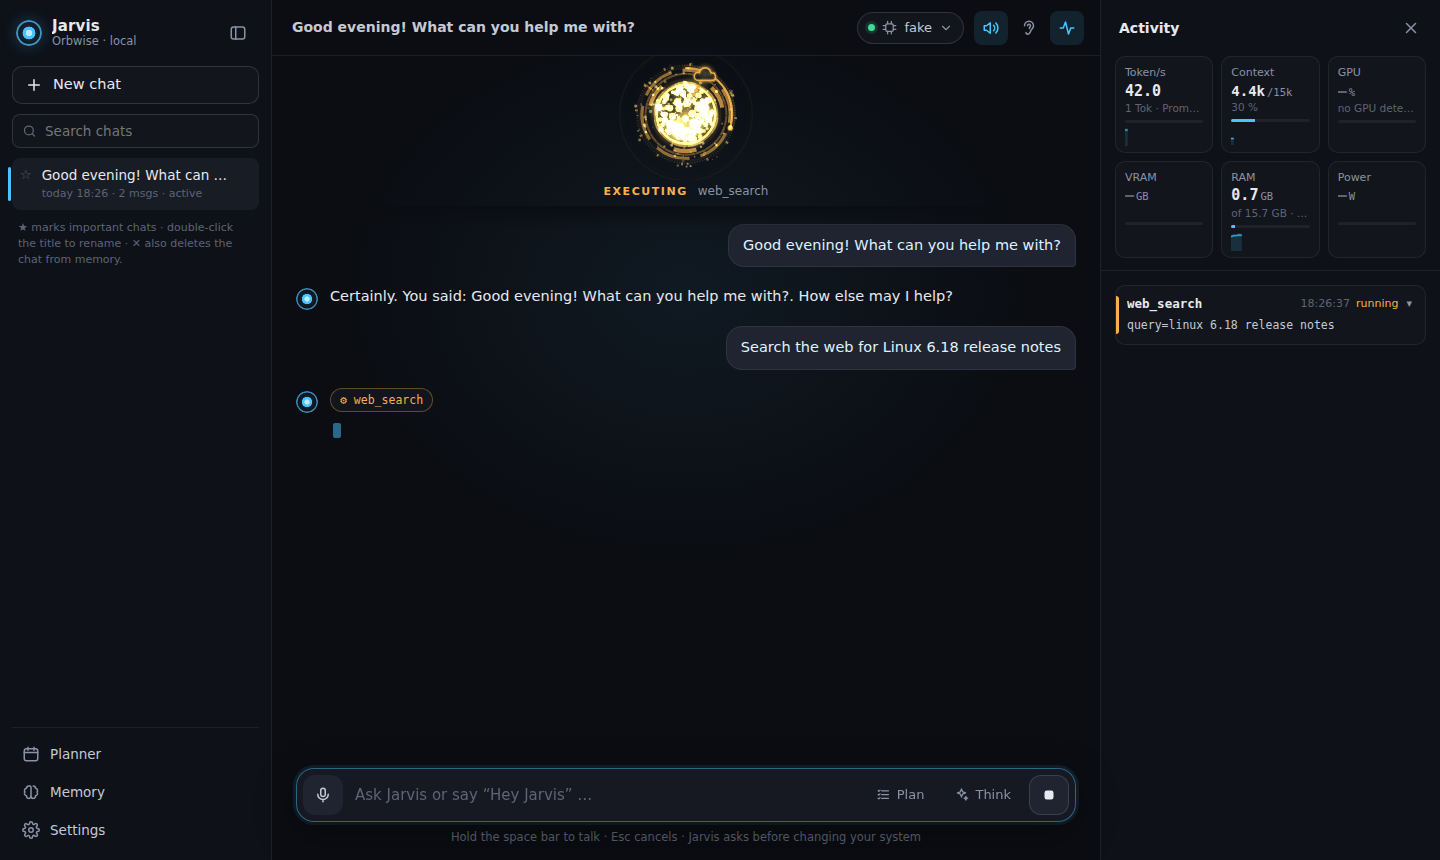
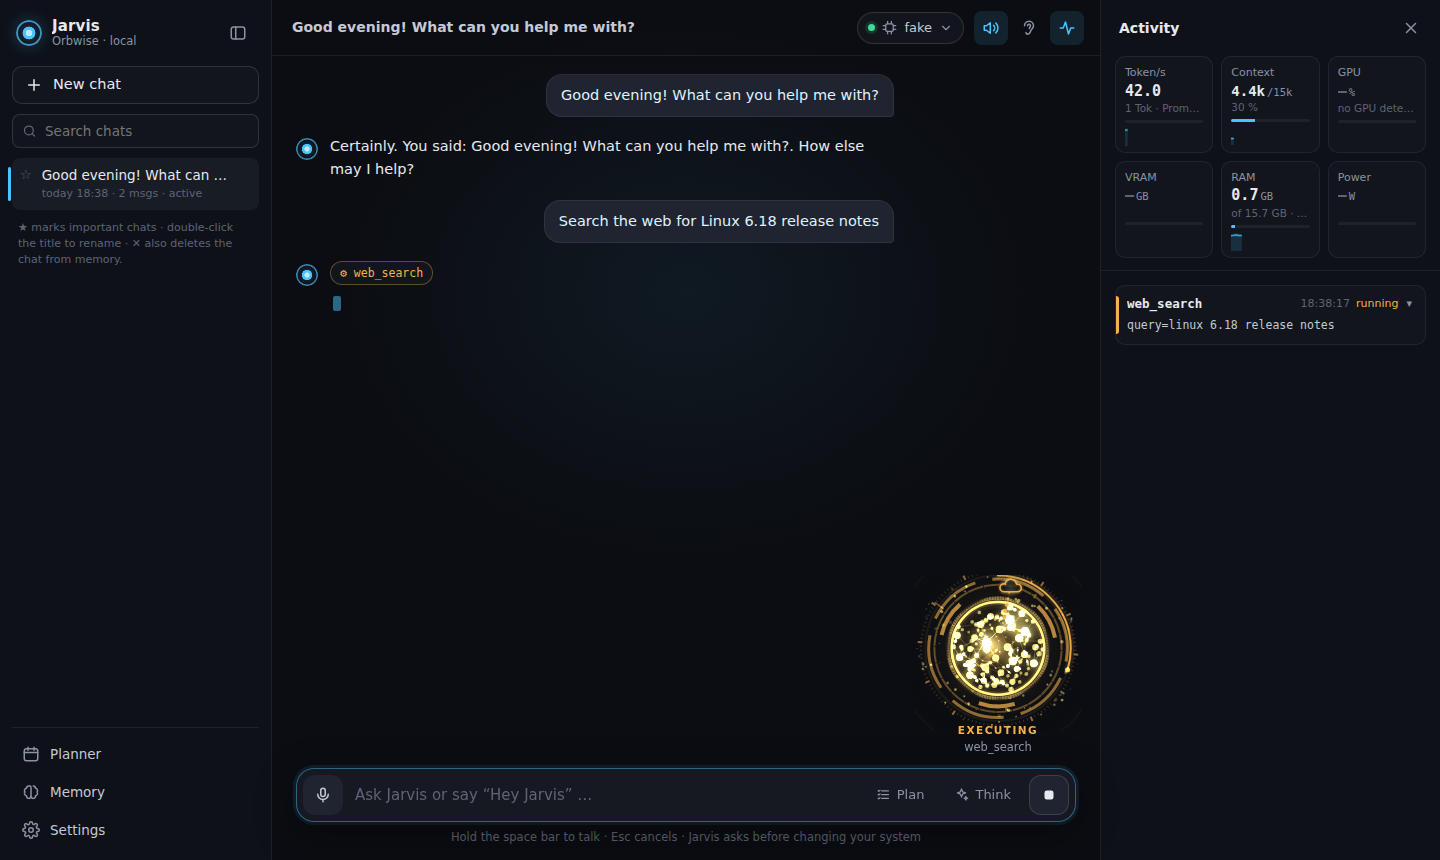
Orb im Gespräch unten rechts angedockt, Gedankengang als Sprechblase daneben
- Statt schmalem Streifen oben: Orb-Dock über der Eingabeleiste rechts (168 px, ab
  1290 px Chatbreite 220 px), Chat hat die volle Höhe und weicht dem Dock aus
- Gedankengang links neben dem Orb mit Pfeil; der Chat rückt solange nach oben,
  nichts wird verdeckt; Größen per Container-Query nach der Chatbreite
- Handy: weiterhin kompakter Streifen oben
- Orb: Satelliten weichen nur im flachen Streifen zur Seite aus

Claude-Session: https://claude.ai/code/session_01KFFhRryZLDpMMyE84FMHed

Changed region(s): [[0.1875, 0.0605, 0.75, 0.4535], [0.625, 0.6651, 0.75, 0.8767], [0.1875, 0.4535, 0.3125, 0.514]]

diff --git a/orbwise/web/style.css b/orbwise/web/style.css
@@ -162,8 +162,12 @@ input[type=checkbox], input[type=range] { accent-color: var(--accent); }
     radial-gradient(ellipse 60% 45% at 50% 34%, rgba(76,194,255,.07), transparent 70%),
     var(--bg);
   transition: grid-template-rows .55s cubic-bezier(.2,.8,.2,1);
+  container: main / inline-size;  /* Größen richten sich nach der Breite des Chat-Bereichs */
 }
-.main.has-messages { grid-template-rows: 56px 150px minmax(0, 1fr) auto; }
+.main.has-messages { grid-template-rows: 56px 0 minmax(0, 1fr) auto; }
+.main-head { grid-row: 1; }
+.conversation { grid-row: 3; }
+.composer-wrap { grid-row: 4; }
 .main-head { display: flex; align-items: center; gap: 10px; padding: 0 16px 0 20px; border-bottom: 1px solid transparent; }
 .main.has-messages .main-head { border-bottom-color: var(--border); }
 .chat-title { flex: 1; min-width: 0; font-size: 14px; font-weight: 550; color: var(--text-2); white-space: nowrap; overflow: hidden; text-overflow: ellipsis; }
@@ -204,14 +208,28 @@ input[type=checkbox], input[type=range] { accent-color: var(--accent); }
   color: var(--text-2); font-size: 13px; transition: background .15s, border-color .15s, color .15s;
 }
 .suggestion:hover { background: var(--surface-2); color: var(--text); border-color: rgba(76,194,255,.4); }
-/* kompakt, sobald ein Gespräch läuft: Orb oben als lebendiger Streifen, Zustand darunter */
-.main.has-messages .stage { flex-direction: column; justify-content: flex-start; gap: 0; }
-.main.has-messages .orb-wrap { width: min(100%, 760px); height: 124px; }
+/* Im Gespräch: Orb als Dock unten rechts (über der Eingabeleiste), Zustand darunter, der Chat hat die volle Höhe */
+.main.has-messages .stage {
+  position: absolute; grid-row: auto; right: 18px; bottom: 104px; width: 168px; z-index: 4;
+  justify-content: flex-end; gap: 0; pointer-events: none; animation: dock-in .45s cubic-bezier(.2,.8,.2,1);
+}
+@keyframes dock-in { from { opacity: 0; transform: translateY(12px) scale(.94); } }
+.main.has-messages .orb-wrap { width: 168px; height: 156px; pointer-events: auto; }
 .main.has-messages .hero { display: none; }
-.main.has-messages .stage-info { min-height: 0; display: flex; gap: 10px; justify-content: center; align-items: baseline; margin-top: 2px; }
-.main.has-messages .state { font-size: 11px; }
-.main.has-messages .substate { font-size: 12px; min-height: 0; }
-.main.has-messages .live-transcript { position: absolute; left: 0; right: 0; top: 100%; font-size: 14px; }
+.main.has-messages .stage-info { min-height: 0; margin-top: -8px; display: flex; flex-direction: column; align-items: center; }
+.main.has-messages .state { font-size: 10.5px; }
+.main.has-messages .substate { font-size: 11.5px; min-height: 0; max-width: 168px; white-space: nowrap; overflow: hidden; text-overflow: ellipsis; }
+.main.has-messages .live-transcript { position: absolute; right: 0; bottom: calc(100% + 8px); width: max-content; max-width: 420px;
+  font-size: 14px; text-align: right; padding: 6px 10px; border-radius: 10px; background: rgba(18,21,28,.85); }
+.main.has-messages .live-transcript:empty { display: none; }
+/* Chat nicht unter dem Dock verstecken: rechts Platz lassen, solange die Spalte sonst darunter reichen würde */
+.main.has-messages .chat { padding-right: 206px; }
+@container main (min-width: 1290px) {
+  .main.has-messages .stage { width: 220px; right: 22px; }
+  .main.has-messages .orb-wrap { width: 220px; height: 200px; }
+  .main.has-messages .substate { max-width: 220px; }
+  .main.has-messages .chat { padding-right: 24px; }
+}
 /* Denkmodus: in den Orb hineinzoomen (groß) bzw. Gedankengang als Karte über dem Chat (kompakt) */
 .stage.zoomed #orb { transform: scale(1.75); opacity: .3; }
 .main.has-messages .stage.zoomed #orb { transform: none; opacity: 1; }
@@ -229,13 +247,19 @@ input[type=checkbox], input[type=range] { accent-color: var(--accent); }
   font-size: 13px; line-height: 1.6; color: #dfe5ff; white-space: pre-wrap;
   mask-image: linear-gradient(to bottom, transparent 0, #000 22%, #000 100%);
 }
+/* Gedankengang im Gespräch: Sprechblase links neben dem Orb-Dock, unten bündig; der Chat rückt solange nach oben */
 .main.has-messages .thought {
-  top: calc(100% + 12px); width: min(92%, 740px); height: 150px; border-radius: var(--radius);
-  background: rgba(18, 21, 28, .92); border: 1px solid rgba(169,179,255,.22); box-shadow: var(--shadow);
-  backdrop-filter: blur(10px); transform: translate(-50%, -6px); opacity: 0;
+  left: auto; top: auto; right: calc(100% + 14px); bottom: 6px; width: min(460px, calc(100cqw - 300px)); height: 190px;
+  border-radius: var(--radius); background: rgba(18, 21, 28, .94); border: 1px solid rgba(169,179,255,.25);
+  box-shadow: var(--shadow); backdrop-filter: blur(10px); transform: translateX(10px); opacity: 0;
 }
-.main.has-messages .stage.zoomed .thought { transform: translate(-50%, 0); opacity: 1; }
+.main.has-messages .thought::after {  /* kleiner Pfeil zum Orb */
+  content: ""; position: absolute; right: -7px; bottom: 60px; width: 12px; height: 12px; transform: rotate(45deg);
+  background: rgba(18, 21, 28, .94); border-top: 1px solid rgba(169,179,255,.25); border-right: 1px solid rgba(169,179,255,.25);
+}
+.main.has-messages .stage.zoomed .thought { transform: none; opacity: 1; }
 .main.has-messages .thought-head { text-align: left; }
+.main.has-messages:has(.stage.zoomed) .chat { padding-bottom: 230px; }
 @media (prefers-reduced-motion: reduce) { #orb, .thought, .main, .orb-wrap, .app { transition: none !important; } }
 
 /* ---------- Gespräch ---------- */
@@ -590,6 +614,18 @@ details.card[open] > summary .caret { transform: rotate(180deg); }
   .drawer { position: fixed; z-index: 15; top: 0; right: 0; bottom: 0; width: var(--drawer-w); transform: translateX(100%);
     transition: transform .3s cubic-bezier(.2,.8,.2,1); box-shadow: -20px 0 60px rgba(0,0,0,.4); }
   .app.drawer-open .drawer { transform: none; border-left: 1px solid var(--border); }
+}
+@media (max-width: 760px) {
+  .main.has-messages { grid-template-rows: 56px 132px minmax(0, 1fr) auto; }
+  .main.has-messages .stage { position: relative; grid-row: 2; right: auto; bottom: auto; width: auto; animation: none; justify-content: flex-start; }
+  .main.has-messages .orb-wrap { width: 100%; height: 108px; }
+  .main.has-messages .stage-info { margin-top: 0; flex-direction: row; gap: 8px; justify-content: center; }
+  .main.has-messages .chat { padding-right: 14px; }
+  .main.has-messages .live-transcript { right: 0; left: 0; bottom: auto; top: 100%; margin: 0 auto; text-align: center; }
+  .main.has-messages .thought { left: 50%; right: auto; top: calc(100% + 8px); bottom: auto; width: calc(100% - 24px); height: 140px; transform: translate(-50%, -6px); }
+  .main.has-messages .thought::after { display: none; }
+  .main.has-messages .stage.zoomed .thought { transform: translate(-50%, 0); }
+  .main.has-messages:has(.stage.zoomed) .chat { padding-bottom: 20px; padding-top: 160px; }
 }
 @media (max-width: 860px) {
   .app, .app.drawer-open, .app.side-collapsed { grid-template-columns: minmax(0, 1fr) 0 0; --side-w: 0px; }

diff --git a/orbwise/web/orb.js b/orbwise/web/orb.js
@@ -706,7 +706,7 @@
       q.reset();
       ctx.clearRect(0, 0, w, h);
       const cx = w / 2, cy = h / 2 - h * 0.03;
-      const R = Math.min(w, h) * (this.k < 0.6 ? 0.24 : 0.3);  // kompakter Streifen: Ringe nicht abschneiden
+      const R = Math.min(w, h) * (w > 1.8 * h ? 0.24 : 0.3);  // flacher Streifen: Ringe nicht abschneiden
       const lvl = this.level;
       const pulse = 1 + 0.04 * Math.sin(this.t * 2.2) * this.energy + lvl * 0.12;
 
@@ -926,7 +926,7 @@
       const boxW = Math.min(this.w * 0.58, 540), boxH = Math.min((this.h + 92) * 0.48, 380);
       return {
         // im flachen, breiten Streifen (kompakter Orb) weichen die Satelliten zur Seite aus
-        rx: lerp(Math.max(R * 1.36, Math.min(this.w * 0.32, R * 3.2) * (this.k < 0.6 ? 1 : 0)), boxW / 2 + 34, z),
+        rx: lerp(Math.max(R * 1.36, Math.min(this.w * 0.32, R * 3.2) * (this.w > 1.8 * this.h ? 1 : 0)), boxW / 2 + 34, z),
         ry: lerp(Math.min(R * 1.36, this.h / 2 - 12), boxH / 2 + 30, z),
         ix: lerp(R * 0.3, boxW / 2 - 6, z), iy: lerp(R * 0.3, boxH / 2 - 6, z),
       };

diff --git a/orbwise/web/app.js b/orbwise/web/app.js
@@ -602,6 +602,7 @@
         $("thought-text").textContent = "";
         $("stage").classList.add("zoomed");
         if (!isCompact()) orb.setZoom(true);  // Satelliten kreisen dann um den Gedankenkasten
+        else requestAnimationFrame(scrollChat);  // Chat rückt über die Gedanken-Karte
       }
       this.text += text;
       if (!this.queued) {
@@ -1008,8 +1009,8 @@
     S.think = !S.think;
     store.set("think", S.think);
     send({ type: "think", enabled: S.think });
-    toast(S.think ? L("Denkmodus an – Antworten dauern länger, der Gedankengang erscheint im Orb.",
-                      "Thinking mode on – answers take longer, the reasoning appears in the orb.")
+    toast(S.think ? L("Denkmodus an – Antworten dauern länger, der Gedankengang erscheint beim Orb.",
+                      "Thinking mode on – answers take longer, the reasoning appears next to the orb.")
                   : L("Denkmodus aus – schnelle Antworten.", "Thinking mode off – fast answers."));
     refresh();
   };
